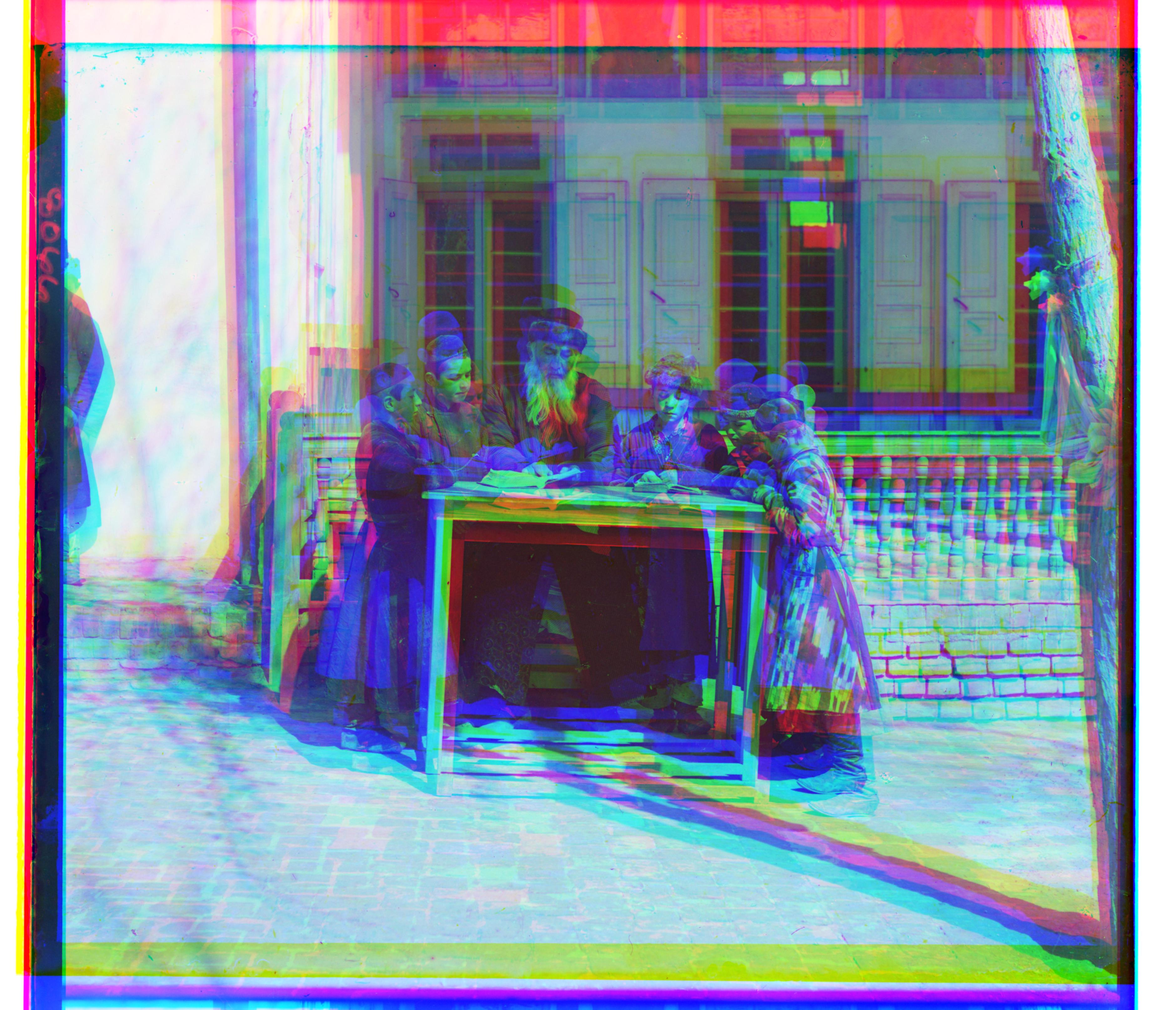
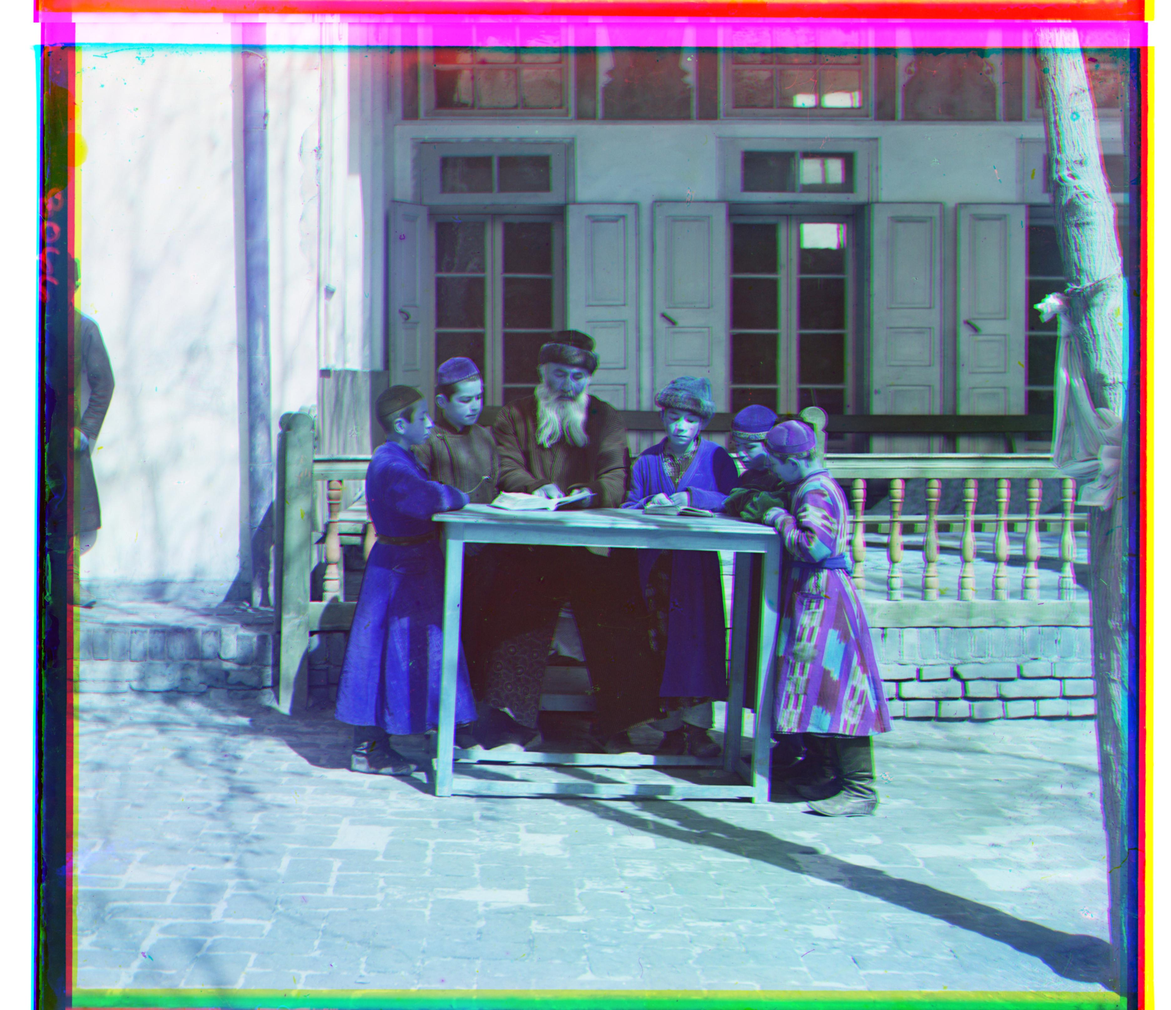
Multi scale implementation

diff --git a/single_scale_align.m b/single_scale_align.m
@@ -1,52 +1,13 @@
 function [B, G_aligned, R_aligned] = single_scale_align(B, G, R)
-    % Trim images on all sides to only compare interiors
-    B_y_min = int64(size(B,1) * .25);
-    B_y_max = int64(size(B,1) * .75);
-    B_x_min = int64(size(B,2) * .25);
-    B_x_max = int64(size(B,2) * .75);
-    B_trimmed = B(B_y_min:B_y_max, B_x_min:B_x_max);
-    G_y_min = int64(size(G,1) * .25);
-    G_y_max = int64(size(G,1) * .75);
-    G_x_min = int64(size(G,2) * .25);
-    G_x_max = int64(size(G,2) * .75);
-    G_trimmed = G(G_y_min:G_y_max, G_x_min:G_x_max);
-    R_y_min = int64(size(R,1) * .25);
-    R_y_max = int64(size(R,1) * .75);
-    R_x_min = int64(size(R,2) * .25);
-    R_x_max = int64(size(R,2) * .75);
-    R_trimmed = R(R_y_min:R_y_max, R_x_min:R_x_max);
+    % Single scale alignment range -- how many pixels +/- to check
+    % for best alignment
+    RANGE = 15;
     
     % Align G to B
-    min = 100000;
-    X = 0;
-    Y = 0;
-    for x = -15:15
-        for y = -15:15
-            shifted = circshift(G_trimmed,[y x]); 
-            diff = sum(sum((shifted-B_trimmed).^2));
-            if diff < min
-                min = diff;
-                X = x;
-                Y = y;
-            end
-        end
-    end
+    [X, Y] = best_displacement(G, B, RANGE);
     G_aligned = circshift(G, [Y X]);
     
     % Align R to B
-    min = 100000;
-    X = 0;
-    Y = 0;
-    for x = -15:15
-        for y = -15:15
-            shifted = circshift(R_trimmed,[y x]); 
-            diff = sum(sum((shifted-B_trimmed).^2));
-            if diff < min
-                min = diff;
-                X = x;
-                Y = y;
-            end
-        end
-    end
+    [X, Y] = best_displacement(R, B, RANGE);
     R_aligned = circshift(R, [Y X]);
 end

diff --git a/multi_scale_align.m b/multi_scale_align.m
@@ -1,3 +1,57 @@
-function d = multi_scale_align(image1, image2)
-      d = [0, 0];
+function [B, G, R] = multi_scale_align(B_full, G_full, R_full)
+    % Multi Scale Iterations
+    % How many iterations (blur and sample) deep to go
+    MSI = 5;
+    
+    pyramid = cell(MSI, 3);
+    pyramid{1, 1} = B_full;
+    pyramid{1, 2} = G_full;
+    pyramid{1, 3} = R_full;
+    for i = 2:MSI
+        % Blur images
+        B = imgaussfilt(pyramid{i-1, 1}, 3);
+        G = imgaussfilt(pyramid{i-1, 2}, 3);
+        R = imgaussfilt(pyramid{i-1, 3}, 3);
+        
+        % Get every other pixel
+        B = B(1:2:end,1:2:end);
+        G = G(1:2:end,1:2:end);
+        R = R(1:2:end,1:2:end);
+        
+        pyramid{i, 1} = B;
+        pyramid{i, 2} = G;
+        pyramid{i, 3} = R;
+    end
+    
+    % Find best displacement for G into B for lowest res image
+    for i = MSI:-1:1
+        % Get new best displacement +/- i^2 around current res
+        [X, Y] = best_displacement(pyramid{i, 2}, pyramid{i, 1}, i^2 + 5);
+        % Shift higher res images by best displacement
+        for j = i:-1:1
+            pyramid{j, 2} = circshift(pyramid{j, 2}, [Y*(2^(i-j+1)) X*(2^(i-j+1))]);
+        end
+    end
+    
+    % Find best displacement for R into B for lowest res image
+    for i = MSI:-1:1
+        % Get new best displacement +/- i^2 around current res
+        [X, Y] = best_displacement(pyramid{i, 3}, pyramid{i, 1}, i^2 + 5);
+        % Shift higher res images by best displacement
+        for j = i:-1:1
+            pyramid{j, 3} = circshift(pyramid{j, 3}, [Y*(2^(i-j+1)) X*(2^(i-j+1))]);
+        end
+    end
+    B = B_full;
+    G = pyramid{1, 2};
+    R = pyramid{1, 3};
 end
+
+
+
+
+
+
+
+
+

diff --git a/best_displacement.m b/best_displacement.m
@@ -1,0 +1,18 @@
+% Finds best displacement to align image1 with image2
+function [X, Y] = best_displacement(image1, image2, range)
+    % Trim images on all sides to only compare interiors
+    image1 = get_interior(image1);
+    image2 = get_interior(image2);
+    min = 1000000000000;
+    for x = -range:range
+        for y = -range:range
+            shifted = circshift(image1,[y x]); 
+            diff = sum(sum((shifted-image2).^2));
+            if diff < min
+                min = diff;
+                X = x;
+                Y = y;
+            end
+        end
+    end
+end

diff --git a/get_interior.m b/get_interior.m
@@ -1,0 +1,8 @@
+% Trim 25% off of each side of image
+function interior = get_interior(image)
+    image_y_min = int64(size(image,1) * .25);
+    image_y_max = int64(size(image,1) * .75);
+    image_x_min = int64(size(image,2) * .25);
+    image_x_max = int64(size(image,2) * .75);
+    interior = image(image_y_min:image_y_max, image_x_min:image_x_max);
+end

diff --git a/processor.m b/processor.m
@@ -24,8 +24,7 @@ for i = 1:numel(image_files)
     if image_files(i).bytes < MULTI_SCALE_THRESHOLD
         [B, G, R] = single_scale_align(B, G, R);
     else
-        G_disp = multi_scale_align(G,B);
-        R_disp = multi_scale_align(R,B);
+        [B, G, R] = multi_scale_align(B, G, R);
     end
 
     % Get new composite image
